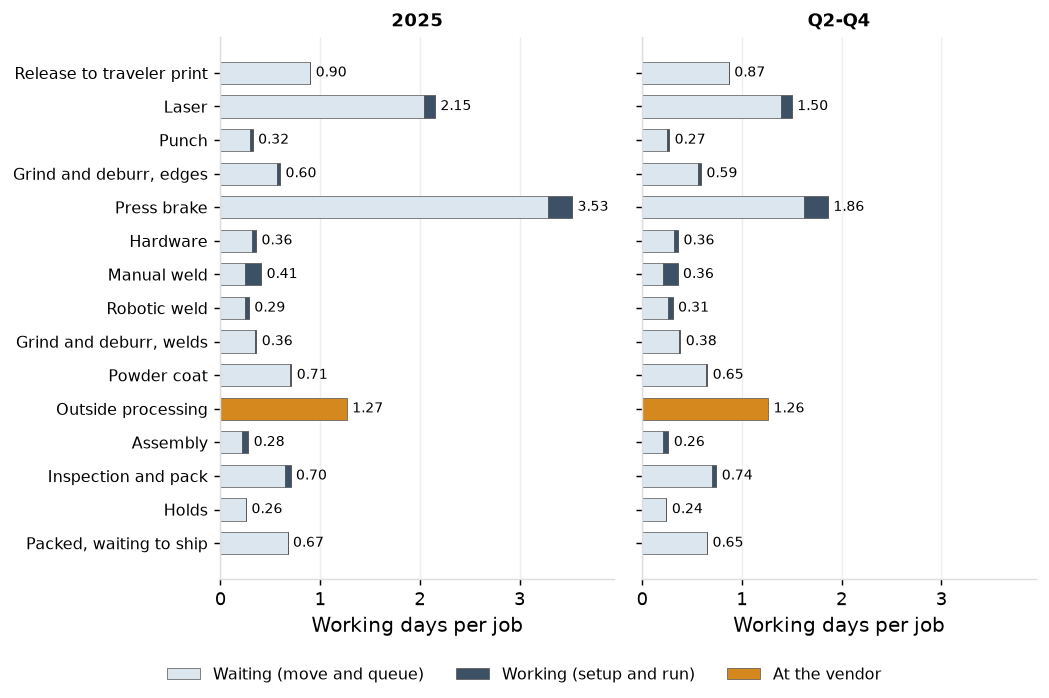
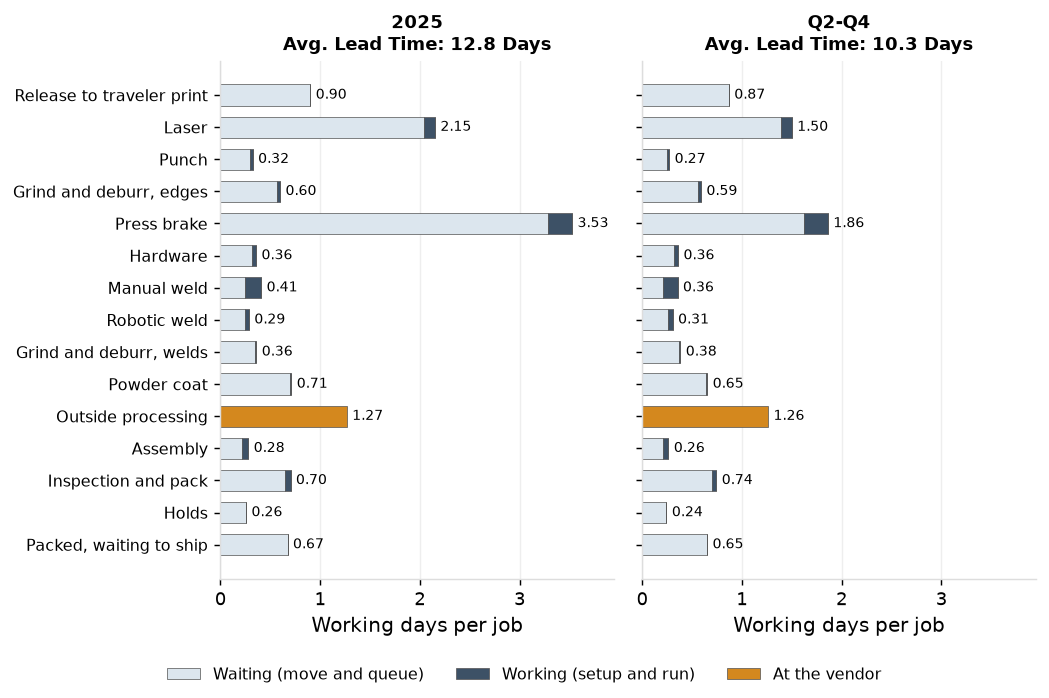
Flow report: headings, chart titles and the due-date histogram's range
The lead time chart carries the average lead time under each panel title, the histogram runs from 10 or more early to 10 or more late, two subsections are renamed, and the paragraph on lost days with no attribution follows the work-center chart.

Changed region(s): [[0.0, 0.0, 0.5796, 0.8123], [0.6101, 0.0, 0.9152, 0.7822]]

diff --git a/docs/reports/lead_time_and_late_jobs.html b/docs/reports/lead_time_and_late_jobs.html
@@ -66,14 +66,14 @@ nav.toc a.sub { font-size: 12px; padding-left: 22px; }
 <div class='chart-title'>Average WIP and Working Days on the Floor, 2023 to 2025</div><img alt="Average WIP and Working Days on the Floor, 2023 to 2025" src="../figures/lead_time_wip_by_quarter.png?v=0f7d6a92">
 <p>WIP peaked at 466 jobs at the end of 2024 against a Q3 2024 average of 150. In Q4 2024, the shop released 26% more brake standard hours than in Q3. This surge pushed the lasers to 92% of scheduled hours on average over the six weeks from November 18, vs. 69% in Q3. Over those weeks, 96 to 223 jobs were waiting to be cut, vs. an average of 35 jobs in Q3. The work then queued at the brakes, which already run at 90% in a normal quarter, and it took through Q1 and into Q2 2025 to clear this backlog. See Appendix Table <a href='#t1'>1</a> for additional detail.</p>
 <div class='chart-title'>Weekly WIP and Net Inflow, Q3 2024 to Q2 2025</div><img alt="Weekly WIP and net inflow, July 2024 to June 2025" src="../figures/lead_time_year_end_build.png?v=11291d26">
-<p>By location, the brakes (queue and run together) hold 28% of WIP in 2025, while the laser cutting stations hold 22% and outside processing 10%. The other eight work centers and jobs complete but not yet shipped hold the remaining 40% between them, none above 9%. In Q2-Q4 the brakes' share falls to 17% and the lasers' rises to 24%, as a result of the Q1 backlog having been worked through.</p>
+<p>By location, the brakes (queue, setup and run together) hold 28% of WIP in 2025, while the laser cutting stations hold 22% and outside processing 10%. The other eight work centers and jobs complete but not yet shipped hold the remaining 40% between them, none above 9%. In Q2-Q4 the brakes' share falls to 17% and the lasers' rises to 24%, as a result of the Q1 backlog having been worked through.</p>
 <div class='chart-title'>Average Share of Jobs in WIP by Location</div><img alt="WIP by location" src="../figures/lead_time_wip_by_location.png?v=59e74d5f">
 <p>The 2025 average floor WIP of 238 jobs was 0.96x the WIP the quoted lead times imply at measured throughput; in Q2-Q4 it was 202 WIP jobs against 240 implied (0.84x). The excess for the year is a result of the first-quarter backlog. In Q2-Q4 the floor carried 38 fewer jobs than its quoted lead times allow at the throughput it achieved, so it could have taken on about 19% more work, or quoted shorter lead times, and still shipped the average job inside its quote. See Appendix Table <a href='#t2'>2</a> for additional detail.</p>
 
 <h2 id='f2'>2. Lead Time</h2>
 <h3 id='f2_1'>Lead time decomposition</h3>
 <p>In 2025, the average lead time of all jobs was 12.8 days, and in Q2-Q4 it was 10.3 days. 84% of lead time in 2025 was spent waiting (movement between and queueing at work centers), against 6% spent working at machines (both setup and run), and 10% with outside vendors. The time spent waiting was concentrated: in 2025, the brake queue alone was 3.1 days of the average job's lead time (24% of total), and the brakes held 53% of all queue time. The brake queue time in 2025 was highly skewed: the median queue time was 1.0 day, with a 90th percentile of 9.5 days. We've presented Q2-Q4 data alongside 2025, as this largely removes the impact of the Q4 build and presents a more normalized view. See Appendix Table <a href='#t3'>3</a> for additional detail.</p>
-<div class='chart-title'>Lead Time Decomposition by Stage, 2025 and Q2-Q4</div><img alt="Lead Time Decomposition by Stage, 2025 and Q2-Q4" src="../figures/lead_time_by_flow_step.png?v=869f2910">
+<div class='chart-title'>Lead Time Decomposition by Stage, 2025 and Q2-Q4</div><img alt="Lead Time Decomposition by Stage, 2025 and Q2-Q4" src="../figures/lead_time_by_flow_step.png?v=f7a945d5">
 
 <h3 id='f2_2'>Actual vs. quoted lead times</h3>
 <p>In 2025, the median job shipped in 11.2 working days vs. an average quoted lead time of 12.9; in Q2-Q4, it was 9.2 vs. 12.5. The quoted lead time was met on 63% of jobs in 2025 and 77% in Q2-Q4. The quote was met on 59% of repeat-part jobs in 2025 (72% in Q2-Q4), 73% of new-part jobs (88%) and 72% of outside-processing jobs (90%). See Appendix Table <a href='#t4'>4</a> for additional detail.</p>
@@ -84,9 +84,9 @@ nav.toc a.sub { font-size: 12px; padding-left: 22px; }
 
 <p>A job's due date is set as the later of the quote and the customer's requested date. Requested dates were 74% of job due dates in 2025, with a median of 15 working days. On-time delivery was 81% in 2025, and in Q2-Q4 once the backlog was worked through, on-time delivery was 91%.</p>
 <p>There were 987 late jobs in 2025, with a median days late of 3 and a 90th percentile of 7. That dropped to 323 late jobs in Q2-Q4, with a median days late of 2 and a 90th percentile of 7. In 2025, 40% of jobs shipped 6 days or more before the due date. See Appendix Tables <a href='#t5'>5</a> and <a href='#t6'>6</a> for additional detail.</p>
-<div class='chart-title'>Working Days Shipped After the Due Date, 2025 and Q2-Q4</div><img alt="Working Days Shipped After the Due Date, 2025 and Q2-Q4" src="../figures/days_after_due_date.png?v=85daed97">
+<div class='chart-title'>Working Days Shipped After the Due Date, 2025 and Q2-Q4</div><img alt="Working Days Shipped After the Due Date, 2025 and Q2-Q4" src="../figures/days_after_due_date.png?v=14f59310">
 
-<h3 id='f3_2'>Where late jobs spend their time</h3>
+<h3 id='f3_2'>Late job lead time decomposition</h3>
 <p>In 2025, the brake queue was 24% of all jobs' lead time and accounted for the largest share of the extra days on late jobs: 5.76 days against 2.50 for on-time jobs. This was due to the first quarter's backlog: the 2024 year-end build released more work than the brakes could absorb and put 664 of the year's 987 late jobs into Q1. In Q2-Q4, with the backlog cleared, late jobs waited less at the brakes than on-time jobs (0.73 days against 1.54).</p>
 <p>In Q2-Q4, the extra days on late jobs were due to material wait at the first operation (2.35 days for late jobs vs. 0.65 for on-time jobs), outside processing (2.24 vs. 1.17), the robotic weld queue (1.14 vs. 0.17) and setup and run (1.81 vs. 0.66; the average lot size for late jobs was 72 pieces vs. 47 for on-time jobs). See Appendix Tables <a href='#t7a'>7a</a> and <a href='#t7b'>7b</a> for additional detail.</p>
 <div class='chart-title'>Lead time by stage, on-time vs. late jobs</div><img alt="Lead time by stage, on-time and late jobs" src="../figures/lead_time_stage_decomposition.png?v=413eff82">
@@ -95,10 +95,10 @@ nav.toc a.sub { font-size: 12px; padding-left: 22px; }
 <h3 id='f3_3'>Drivers behind late jobs</h3>
 <p>We analyzed the ERP and shop-floor records to arrive at an attribution of lost days (i.e., how many days late the jobs shipped) by driver. For each late job, we considered how many days it ran longer than an on-time job of the same routing class at each stage, as well as material holds and late purchase order receipts. We then assigned each job to a driver.</p>
 <p>In 2025, jobs waiting at work centers (i.e., queue constraints) accounted for 42% of the 3,473 lost days, while jobs that were released late accounted for 21%, and jobs that waited on material and outside processing accounted for 7% and 3%, respectively. In Q2-Q4, jobs that were released late accounted for 48% of the 1,035 lost days, with queue constraint (16%), material (12%) and outside processing (3%) the other main drivers. Jobs were released late when they went to the floor with fewer working days to the due date than the job's quoted lead time; this was the largest driver on 162 of the 323 (50%) late jobs in Q2-Q4. See Appendix Tables <a href='#t8'>8</a>, <a href='#t9a'>9a</a> and <a href='#t9b'>9b</a> for additional detail.</p>
-<p>24% of lost days in 2025 and 18% in Q2-Q4 have no attribution. Of the 823 non-attributed lost days in 2025, 27% was from work center queue time above on-time median but below the attribution threshold, 30% from setup and run time above normal with no overrun or rework recorded, and 16% from movement between stages. The remainder have no single discernible driver. See Appendix Tables <a href='#t10'>10</a> and <a href='#t11'>11</a> for additional detail.</p>
 <div class='chart-title'>Lost days by attributed driver</div><img alt="Lost days by attributed driver" src="../figures/late_jobs_lost_days_by_cause.png?v=9910e56e">
 <p>The chart below shows where on the floor the lost days were incurred: each work center's lost days in 2025 and in Q2-Q4, split by attributed driver. It excludes the days attributed to jobs released late (732 of the 3,473 lost days in 2025 and 501 of the 1,035 in Q2-Q4), since those days are lost at order entry, before the job reaches a work center.</p>
 <div class='chart-title'>Lost days by work center and attributed driver</div><img alt="Lost days by work center and attributed driver" src="../figures/late_jobs_lost_days_by_work_center.png?v=b0caab20">
+<p>24% of lost days in 2025 and 18% in Q2-Q4 have no attribution. Of the 823 non-attributed lost days in 2025, 27% was from work center queue time above on-time median but below the attribution threshold, 30% from setup and run time above normal with no overrun or rework recorded, and 16% from movement between stages. The remainder have no single discernible driver. See Appendix Tables <a href='#t10'>10</a> and <a href='#t11'>11</a> for additional detail.</p>
 
 <h3 id='f3_4'>The shop's own records</h3>
 <p>Late-reason codes are inputted retroactively on late jobs by the customer service team during the weekly delivery review. These codes are pulled from a dropdown list with six choices: capacity, material, outside processing, customer change, quality and other. As seen below, a significant portion of late jobs had no late-reason code entered (36% in 2025 and 37% in Q2-Q4). See Appendix Table <a href='#t12'>12</a> for additional detail.</p>
@@ -113,7 +113,7 @@ nav.toc a.sub { font-size: 12px; padding-left: 22px; }
 <p>First, the fixed standards were consistently too high: in months of normal capacity, the shop over-estimated lead times by an average of 2.5 days. Second, during the period in Q4 2024 to Q1 2025 when the shop's capacity was constrained and lead times increased, the shop's lead time adjustments arrived too late and were too low in quantity, and so under-estimated lead times by 5.8 days in the four months from December 2024 to March 2025. See Appendix Table <a href='#t15'>15</a> for additional detail.</p>
 <div class='chart-title'>Quoted and Actual Lead Time by Release Month, Non-rush Jobs, 2023 to 2025</div><img alt="Quoted and Actual Lead Time by Release Month, Non-rush Jobs, 2023 to 2025" src="../figures/quote_and_actual_by_release_month.png?v=fc1ef2cb">
 <p>Brake backlog at release explains 23% of the lead time quoting error. The quote runs 3.1 days long below 1 day of backlog and 5.6 to 6.2 days short above 3. Outside processing quotes run 4.2 days long: the median job takes 14 days against the 20-day standard. Job size and lot size explain under 1%. The backlog at release sees a build late: jobs released in November 2024 ran 3.5 days over their quotes at 1.4 days of backlog. See Appendix Table <a href='#t16'>16</a> for additional detail.</p>
-<h3 id='f4_1'>A more accurate quote</h3>
+<h3 id='f4_1'>Recommendation</h3>
 <p>The recommended quote is the median lead time of jobs of the same routing class at the same brake backlog at release, refitted monthly from the jobs shipped; the table below gives it as fitted on 2023 to 2025. Fitted that way, it misses by 3.2 days in ordinary months and 5.6 in the build, against 4.4 and 7.3 for today's quote, and quotes shorter than today on 84% of jobs, by 3.9 days on average, and longer on 14%, by 3.6. Applied month by month as the shop would have had it at the time, it does as well in ordinary months (3.4 days) but not in the 2024 build (8.9), because no earlier job had shipped from a backlog above 3 days. A median quote is met by about half of jobs; at the 80th percentile of the same cell the commitment is met on 82% of jobs, against 72% for today's quote. See Appendix Tables <a href='#t17'>17</a>, <a href='#t18'>18</a> and <a href='#t19'>19</a> for additional detail.</p>
 <div class='chart-title'>Quoted Lead Time by Routing Class and Brake Backlog at Release, Working Days, Fitted on 2023 to 2025</div><table class="data"><thead><tr><th>Routing class</th><th>Class standard</th><th>Class median</th><th>Under 1 day</th><th>1 to 2 days</th><th>2 to 3 days</th><th>3 to 5 days</th><th>Over 5 days</th></tr></thead><tbody><tr><td class="">Repeat part</td><td class="">10</td><td class="">8</td><td class="">7</td><td class="">8</td><td class="">11</td><td class="">16</td><td class="">18</td></tr><tr><td class="">New part</td><td class="">15</td><td class="">9</td><td class="">8</td><td class="">10</td><td class="">15</td><td class="">21</td><td class="">22</td></tr><tr><td class="">Outside processing</td><td class="">20</td><td class="">14</td><td class="">13</td><td class="">14</td><td class="">20</td><td class="">29</td><td class="">26</td></tr></tbody></table>
 <div class='chart-title'>Mean Absolute Error of the Quote by Release Month, Current Quote Against the Recommended Quote, 2023 to 2025</div><img alt="Mean Absolute Error of the Quote by Release Month, Current Quote Against the Recommended Quote, 2023 to 2025" src="../figures/quote_error_by_release_month.png?v=c066de11">
@@ -124,7 +124,7 @@ nav.toc a.sub { font-size: 12px; padding-left: 22px; }
 <h3 id='t3'>Table 3. Queue time by work center</h3><table class="data"><thead><tr><th>Work center</th><th>Operations</th><th>Queue days</th><th>Share</th><th>Mean</th><th>Median</th><th>90th percentile</th><th>Share, Q2-Q4</th><th>Mean, Q2-Q4</th><th>Median, Q2-Q4</th><th>90th percentile, Q2-Q4</th></tr></thead><tbody><tr><td class="">Press brake</td><td class="">5,566</td><td class="">17,013</td><td class="">53.2%</td><td class="">3.06</td><td class="">1.02</td><td class="">9.51</td><td class="">35.3%</td><td class="">1.48</td><td class="">0.55</td><td class="">4.13</td></tr><tr><td class="">Grind and deburr</td><td class="">5,572</td><td class="">4,902</td><td class="">15.3%</td><td class="">0.88</td><td class="">0.80</td><td class="">1.87</td><td class="">21.4%</td><td class="">0.89</td><td class="">0.81</td><td class="">1.88</td></tr><tr><td class="">Inspection and pack</td><td class="">5,129</td><td class="">3,526</td><td class="">11.0%</td><td class="">0.69</td><td class="">0.79</td><td class="">1.07</td><td class="">16.1%</td><td class="">0.74</td><td class="">0.82</td><td class="">1.06</td></tr><tr><td class="">Hardware</td><td class="">2,118</td><td class="">1,748</td><td class="">5.5%</td><td class="">0.83</td><td class="">0.71</td><td class="">1.70</td><td class="">7.6%</td><td class="">0.84</td><td class="">0.72</td><td class="">1.63</td></tr><tr><td class="">Manual weld</td><td class="">1,533</td><td class="">1,328</td><td class="">4.1%</td><td class="">0.87</td><td class="">0.72</td><td class="">1.81</td><td class="">5.0%</td><td class="">0.76</td><td class="">0.73</td><td class="">1.44</td></tr><tr><td class="">Robotic weld</td><td class="">420</td><td class="">1,207</td><td class="">3.8%</td><td class="">2.87</td><td class="">1.19</td><td class="">7.94</td><td class="">5.7%</td><td class="">3.21</td><td class="">1.27</td><td class="">9.09</td></tr><tr><td class="">Powder coat</td><td class="">2,328</td><td class="">1,163</td><td class="">3.6%</td><td class="">0.50</td><td class="">0.10</td><td class="">1.90</td><td class="">4.3%</td><td class="">0.43</td><td class="">0.09</td><td class="">1.70</td></tr><tr><td class="">Assembly</td><td class="">684</td><td class="">1,115</td><td class="">3.5%</td><td class="">1.63</td><td class="">0.86</td><td class="">4.01</td><td class="">4.6%</td><td class="">1.53</td><td class="">0.85</td><td class="">3.76</td></tr></tbody></table>
 <h3 id='t4'>Table 4. Lead time against the quoted lead time by routing class</h3><table class="data"><thead><tr><th>Period</th><th>Routing class</th><th>Jobs</th><th>Quoted</th><th>Median</th><th>Mean</th><th>90th percentile</th><th>Within quoted</th><th>On time</th><th>Late jobs</th><th>Median, on time</th><th>Median, late</th></tr></thead><tbody><tr><td class="">2025</td><td class="">All</td><td class="">5,129</td><td class="">12.9</td><td class="">11.2</td><td class="">12.8</td><td class="">23.2</td><td class="">63.0%</td><td class="">80.8%</td><td class="">987</td><td class="">9.2</td><td class="">19.2</td></tr><tr><td class="">2025</td><td class="">Repeat part</td><td class="">3,698</td><td class="">10.6</td><td class="">9.2</td><td class="">11.4</td><td class="">21.2</td><td class="">59.2%</td><td class="">82.2%</td><td class="">659</td><td class="">8.2</td><td class="">17.2</td></tr><tr><td class="">2025</td><td class="">New part</td><td class="">462</td><td class="">15.5</td><td class="">11.2</td><td class="">12.8</td><td class="">23.2</td><td class="">73.4%</td><td class="">82.5%</td><td class="">81</td><td class="">10.2</td><td class="">22.2</td></tr><tr><td class="">2025</td><td class="">Outside processing</td><td class="">969</td><td class="">20.5</td><td class="">16.2</td><td class="">18.2</td><td class="">30.2</td><td class="">72.4%</td><td class="">74.5%</td><td class="">247</td><td class="">14.2</td><td class="">27.2</td></tr><tr><td class="">2025 Q2-Q4</td><td class="">All</td><td class="">3,734</td><td class="">12.5</td><td class="">9.2</td><td class="">10.3</td><td class="">17.2</td><td class="">76.8%</td><td class="">91.3%</td><td class="">323</td><td class="">9.2</td><td class="">13.2</td></tr><tr><td class="">2025 Q2-Q4</td><td class="">Repeat part</td><td class="">2,678</td><td class="">10.1</td><td class="">8.2</td><td class="">9.0</td><td class="">15.2</td><td class="">71.8%</td><td class="">91.9%</td><td class="">218</td><td class="">7.2</td><td class="">12.2</td></tr><tr><td class="">2025 Q2-Q4</td><td class="">New part</td><td class="">346</td><td class="">15.1</td><td class="">10.2</td><td class="">10.5</td><td class="">16.7</td><td class="">88.4%</td><td class="">93.1%</td><td class="">24</td><td class="">10.2</td><td class="">16.7</td></tr><tr><td class="">2025 Q2-Q4</td><td class="">Outside processing</td><td class="">710</td><td class="">20.1</td><td class="">14.2</td><td class="">15.2</td><td class="">21.2</td><td class="">89.7%</td><td class="">88.6%</td><td class="">81</td><td class="">14.2</td><td class="">22.2</td></tr></tbody></table>
 <h3 id='t5'>Table 5. On-time delivery and lead time by quarter shipped</h3><table class="data"><thead><tr><th>Quarter shipped</th><th>Jobs shipped</th><th>Late jobs</th><th>On time</th><th>Median lead time</th><th>90th percentile</th></tr></thead><tbody><tr><td class="">2023 Q1</td><td class="">1,188</td><td class="">87</td><td class="">92.7%</td><td class="">9.2</td><td class="">22.2</td></tr><tr><td class="">2023 Q2</td><td class="">1,042</td><td class="">54</td><td class="">94.8%</td><td class="">7.2</td><td class="">13.2</td></tr><tr><td class="">2023 Q3</td><td class="">981</td><td class="">69</td><td class="">93.0%</td><td class="">7.2</td><td class="">14.2</td></tr><tr><td class="">2023 Q4</td><td class="">1,131</td><td class="">90</td><td class="">92.0%</td><td class="">8.2</td><td class="">16.2</td></tr><tr><td class="">2024 Q1</td><td class="">1,216</td><td class="">83</td><td class="">93.2%</td><td class="">8.2</td><td class="">16.2</td></tr><tr><td class="">2024 Q2</td><td class="">1,106</td><td class="">65</td><td class="">94.1%</td><td class="">7.2</td><td class="">14.2</td></tr><tr><td class="">2024 Q3</td><td class="">1,060</td><td class="">81</td><td class="">92.4%</td><td class="">8.2</td><td class="">16.2</td></tr><tr><td class="">2024 Q4</td><td class="">1,171</td><td class="">142</td><td class="">87.9%</td><td class="">9.2</td><td class="">18.2</td></tr><tr><td class="">2025 Q1</td><td class="">1,395</td><td class="">664</td><td class="">52.4%</td><td class="">19.2</td><td class="">31.2</td></tr><tr><td class="">2025 Q2</td><td class="">1,315</td><td class="">81</td><td class="">93.8%</td><td class="">9.2</td><td class="">17.2</td></tr><tr><td class="">2025 Q3</td><td class="">1,186</td><td class="">118</td><td class="">90.1%</td><td class="">9.2</td><td class="">17.2</td></tr><tr><td class="">2025 Q4</td><td class="">1,233</td><td class="">124</td><td class="">89.9%</td><td class="">9.2</td><td class="">17.2</td></tr></tbody></table>
-<h3 id='t6'>Table 6. Jobs shipped by working days from the due date to the ship date, 2025 and Q2-Q4</h3><table class="data"><thead><tr><th>Working days from the due date to the ship date</th><th>Jobs shipped, 2025</th><th>Jobs shipped, 2025 Q2-Q4</th></tr></thead><tbody><tr><td class="">8 or more early</td><td class="">1,316</td><td class="">1,254</td></tr><tr><td class="">7 early</td><td class="">350</td><td class="">321</td></tr><tr><td class="">6 early</td><td class="">390</td><td class="">348</td></tr><tr><td class="">5 early</td><td class="">395</td><td class="">351</td></tr><tr><td class="">4 early</td><td class="">367</td><td class="">324</td></tr><tr><td class="">3 early</td><td class="">341</td><td class="">273</td></tr><tr><td class="">2 early</td><td class="">362</td><td class="">249</td></tr><tr><td class="">1 early</td><td class="">322</td><td class="">163</td></tr><tr><td class="">on the due date</td><td class="">299</td><td class="">128</td></tr><tr><td class="">1 late</td><td class="">266</td><td class="">97</td></tr><tr><td class="">2 late</td><td class="">201</td><td class="">72</td></tr><tr><td class="">3 late</td><td class="">135</td><td class="">52</td></tr><tr><td class="">4 late</td><td class="">108</td><td class="">31</td></tr><tr><td class="">5 late</td><td class="">79</td><td class="">22</td></tr><tr><td class="">6 late</td><td class="">63</td><td class="">14</td></tr><tr><td class="">7 late</td><td class="">43</td><td class="">8</td></tr><tr><td class="">8 late</td><td class="">31</td><td class="">10</td></tr><tr><td class="">9 late</td><td class="">24</td><td class="">5</td></tr><tr><td class="">10 late</td><td class="">15</td><td class="">6</td></tr><tr><td class="">11 late</td><td class="">6</td><td class="">2</td></tr><tr><td class="">12 late</td><td class="">9</td><td class="">2</td></tr><tr><td class="">13 late</td><td class="">1</td><td class="">0</td></tr><tr><td class="">14 late</td><td class="">3</td><td class="">1</td></tr><tr><td class="">15 or more late</td><td class="">3</td><td class="">1</td></tr><tr><td class="">All jobs</td><td class="">5,129</td><td class="">3,734</td></tr></tbody></table>
+<h3 id='t6'>Table 6. Jobs shipped by working days from the due date to the ship date, 2025 and Q2-Q4</h3><table class="data"><thead><tr><th>Working days from the due date to the ship date</th><th>Jobs shipped, 2025</th><th>Jobs shipped, 2025 Q2-Q4</th></tr></thead><tbody><tr><td class="">10 or more early</td><td class="">802</td><td class="">763</td></tr><tr><td class="">9 early</td><td class="">227</td><td class="">222</td></tr><tr><td class="">8 early</td><td class="">287</td><td class="">269</td></tr><tr><td class="">7 early</td><td class="">350</td><td class="">321</td></tr><tr><td class="">6 early</td><td class="">390</td><td class="">348</td></tr><tr><td class="">5 early</td><td class="">395</td><td class="">351</td></tr><tr><td class="">4 early</td><td class="">367</td><td class="">324</td></tr><tr><td class="">3 early</td><td class="">341</td><td class="">273</td></tr><tr><td class="">2 early</td><td class="">362</td><td class="">249</td></tr><tr><td class="">1 early</td><td class="">322</td><td class="">163</td></tr><tr><td class="">on the due date</td><td class="">299</td><td class="">128</td></tr><tr><td class="">1 late</td><td class="">266</td><td class="">97</td></tr><tr><td class="">2 late</td><td class="">201</td><td class="">72</td></tr><tr><td class="">3 late</td><td class="">135</td><td class="">52</td></tr><tr><td class="">4 late</td><td class="">108</td><td class="">31</td></tr><tr><td class="">5 late</td><td class="">79</td><td class="">22</td></tr><tr><td class="">6 late</td><td class="">63</td><td class="">14</td></tr><tr><td class="">7 late</td><td class="">43</td><td class="">8</td></tr><tr><td class="">8 late</td><td class="">31</td><td class="">10</td></tr><tr><td class="">9 late</td><td class="">24</td><td class="">5</td></tr><tr><td class="">10 or more late</td><td class="">37</td><td class="">12</td></tr><tr><td class="">All jobs</td><td class="">5,129</td><td class="">3,734</td></tr></tbody></table>
 
 
 <h3 id='t7a'>Table 7a. Lead time by stage, 2025: mean working days per job, stages in routing order</h3><table class="data"><thead><tr><th>Stage</th><th>All jobs</th><th>Share of lead time</th><th>On time</th><th>Late</th></tr></thead><tbody><tr><td class="">Release to traveler print</td><td class="">0.90</td><td class="">7.1%</td><td class="">0.89</td><td class="">0.97</td></tr><tr><td class="">First-operation queue</td><td class="">1.48</td><td class="">11.6%</td><td class="">1.08</td><td class="">3.16</td></tr><tr><td class="">Material wait at first operation</td><td class="">0.85</td><td class="">6.6%</td><td class="">0.68</td><td class="">1.55</td></tr><tr><td class="">Queue: press brake</td><td class="">3.13</td><td class="">24.5%</td><td class="">2.50</td><td class="">5.76</td></tr><tr><td class="">Queue: hardware</td><td class="">0.22</td><td class="">1.7%</td><td class="">0.23</td><td class="">0.18</td></tr><tr><td class="">Queue: manual weld</td><td class="">0.19</td><td class="">1.5%</td><td class="">0.18</td><td class="">0.21</td></tr><tr><td class="">Queue: robotic weld</td><td class="">0.23</td><td class="">1.8%</td><td class="">0.15</td><td class="">0.58</td></tr><tr><td class="">Queue: grind and deburr</td><td class="">0.66</td><td class="">5.2%</td><td class="">0.68</td><td class="">0.58</td></tr><tr><td class="">Powder scheduling wait</td><td class="">0.46</td><td class="">3.6%</td><td class="">0.40</td><td class="">0.73</td></tr><tr><td class="">Queue: powder coat</td><td class="">0.16</td><td class="">1.3%</td><td class="">0.13</td><td class="">0.33</td></tr><tr><td class="">Queue: assembly</td><td class="">0.20</td><td class="">1.6%</td><td class="">0.12</td><td class="">0.54</td></tr><tr><td class="">Queue: inspection and pack</td><td class="">0.51</td><td class="">4.0%</td><td class="">0.59</td><td class="">0.19</td></tr><tr><td class="">Setup and run</td><td class="">0.82</td><td class="">6.4%</td><td class="">0.67</td><td class="">1.47</td></tr><tr><td class="">Move</td><td class="">0.79</td><td class="">6.2%</td><td class="">0.74</td><td class="">1.03</td></tr><tr><td class="">Hold: customer</td><td class="">0.09</td><td class="">0.7%</td><td class="">0.08</td><td class="">0.13</td></tr><tr><td class="">Hold: engineering</td><td class="">0.06</td><td class="">0.5%</td><td class="">0.05</td><td class="">0.09</td></tr><tr><td class="">Hold: material</td><td class="">0.01</td><td class="">0.0%</td><td class="">0.00</td><td class="">0.01</td></tr><tr><td class="">Hold: other</td><td class="">0.03</td><td class="">0.2%</td><td class="">0.03</td><td class="">0.03</td></tr><tr><td class="">Hold: quality</td><td class="">0.04</td><td class="">0.3%</td><td class="">0.03</td><td class="">0.06</td></tr><tr><td class="">Hold: tooling</td><td class="">0.03</td><td class="">0.2%</td><td class="">0.03</td><td class="">0.04</td></tr><tr><td class="">Outside processing</td><td class="">1.27</td><td class="">9.9%</td><td class="">1.10</td><td class="">1.96</td></tr><tr><td class="">Packed, waiting to ship</td><td class="">0.67</td><td class="">5.3%</td><td class="">0.63</td><td class="">0.84</td></tr><tr><td class="">Lead time, mean</td><td class="">12.78</td><td class=""></td><td class="">10.97</td><td class="">20.38</td></tr><tr><td class="">Lead time, median</td><td class="">11.2</td><td class=""></td><td class="">9.2</td><td class="">19.2</td></tr><tr><td class="">Jobs</td><td class="">5,129</td><td class=""></td><td class="">4,142</td><td class="">987</td></tr></tbody></table>

diff --git a/analytics/lead_time/sections.py b/analytics/lead_time/sections.py
@@ -150,9 +150,9 @@ AFTER = q(f"""select cs.wd_index - cd.wd_index as days_after, quarter(j.ship_dat
               left join intermediate.int_working_days cr on cr.calendar_date = ol.requested_date left join intermediate.int_working_days co on co.calendar_date = ol.order_date
               where year(j.ship_date) = {YEAR}""")
 assert len(AFTER) == len(jobs) and int((AFTER["days_after"] > 0).sum()) == int((~jobs["on_time"]).sum())
-EARLY, LATE_CAP = -8, 15
+EARLY, LATE_CAP = -10, 10
 AFTER_BINS = list(range(EARLY, LATE_CAP + 1))
-AFTER_LABEL = {EARLY: "8 or more early", LATE_CAP: "15 or more late"}
+AFTER_LABEL = {EARLY: "10 or more early", LATE_CAP: "10 or more late"}
 
 
 def after_counts(d):
@@ -341,7 +341,7 @@ def fig_flow_days():
             ax.annotate(f"{v:.2f}", (v, yi), textcoords="offset points", xytext=(3, 0), va="center", fontsize=7.8)
         ax.set_yticks(yy)
         ax.set_yticklabels(FLOW_ROWS, fontsize=9)
-        ax.set_title(label, fontsize=10)
+        ax.set_title(label + chr(10) + f"Avg. Lead Time: {s['total']:.1f} Days", fontsize=10)
         ax.set_xlabel("Working days per job")
     axes[0].set_xlim(0, float(FY["total"].max()) * 1.12)
     h, lab = axes[0].get_legend_handles_labels()
@@ -363,7 +363,7 @@ def fig_after_due():
     ax.bar(x, AR.to_numpy(), 0.86, color=BRAND_BLUE, label=RT)
     ax.axvline(0, color=RED, linewidth=1.6, linestyle="--", label="Due date")
     ax.set_xticks(AFTER_BINS)
-    ax.set_xticklabels(["8 or" + chr(10) + "more" + chr(10) + "early" if t == EARLY else "15 or" + chr(10) + "more" + chr(10) + "late" if t == LATE_CAP else str(t) for t in AFTER_BINS],
+    ax.set_xticklabels(["10 or" + chr(10) + "more" + chr(10) + "early" if t == EARLY else "10 or" + chr(10) + "more" + chr(10) + "late" if t == LATE_CAP else str(t) for t in AFTER_BINS],
                        fontsize=8)
     ax.set_xlim(EARLY - 0.8, LATE_CAP + 0.8)
     ax.set_xlabel("Working days shipped after the due date")
@@ -632,7 +632,7 @@ def report():
              f"normal quarter, and it took through Q1 and into Q2 {YEAR} to clear this backlog. {see('7')}</p>")
     b.append(chart("Weekly WIP and Net Inflow, Q3 2024 to Q2 2025", fig_weekly_year()))
     turn = lambda a, c: "falls" if c < a else "rises"
-    b.append(f"<p>By location, the brakes (queue and run together) hold {pct(ws_year['press_brake'], 0)} of WIP in {YEAR}, while the laser cutting stations hold "
+    b.append(f"<p>By location, the brakes (queue, setup and run together) hold {pct(ws_year['press_brake'], 0)} of WIP in {YEAR}, while the laser cutting stations hold "
              f"{pct(ws_year['laser'], 0)} and outside processing {pct(ws_year['outside_processing'], 0)}. The other {NUMBER[len(other_centers)]} work centers and jobs "
              f"complete but not yet shipped hold the remaining {pct(ws_other.sum(), 0)} between them, none above {pct(ws_other.max(), 0)}. In {RT} the brakes' share "
              f"{turn(ws_year['press_brake'], ws_rest['press_brake'])} to {pct(ws_rest['press_brake'], 0)} and the lasers' "
@@ -655,7 +655,7 @@ def report():
              f"shipped 6 days or more before the due date. {see('5a', '8')}</p>")
     b.append(chart(f"Working Days Shipped After the Due Date, {YEAR} and {RT}", fig_after_due()))
 
-    b.append("<h2 id='f6'>6. Where late jobs spend their time</h2>")
+    b.append("<h2 id='f6'>6. Late job lead time decomposition</h2>")
     b.append(f"<p>In {YEAR}, the brake queue was {pct(st(SY, bq, 'share'), 0)} of all jobs' lead time and accounted for the largest share of the extra days on "
              f"late jobs: {d2(st(SY, bq, 'late'))} days against {d2(st(SY, bq, 'on time'))} for on-time jobs. This was due to the first quarter's backlog: the "
              f"2024 year-end build released more work than the brakes could absorb and put {n0(q1['late_jobs'])} of the year's {n0(ya['late_jobs'])} late jobs "
@@ -702,7 +702,7 @@ def report():
     b.append("<div class='glossary'>WIP: jobs released and not shipped. Quoted lead time: 10 working days for repeat parts, 15 for new parts, "
              "20 with outside processing. On time: shipped on or before the promised date as last revised.</div>")
     toc = [("f1", ""), ("f2", "Actual vs. quoted lead times"), ("f3", "Lead time decomposition"), ("f4", ""), ("f5", ""),
-           ("f6", "Where late jobs spend their time"),
+           ("f6", "Late job lead time decomposition"),
            ("rec", "Recommendation"), ("method", "Method and data"), ("appendix", "Appendix")]
     scope = (f"Jobs shipped in {YEAR}, whole year and {REST}; records from January 2023 to December 2025.<br>"
              f"Sources: ERP, shop-floor data collection, quality, maintenance and attendance exports (batch {batch}).")

diff --git a/analytics/late_jobs/sections.py b/analytics/late_jobs/sections.py
@@ -316,16 +316,16 @@ def report():
              f"Jobs were released late when they went to the floor with fewer working days to the due date than the job's quoted lead time; "
              f"this was the largest driver on {n0(r['dominant']['released late'])} of the {n0(len(LR))} ({pct(r['dominant']['released late'] / len(LR), 0)}) late jobs in {REST}. {see(1, 5, 6)}</p>")
     queues = [k for k in NAYs.index if k.startswith("queue:") or k == "first-operation queue"]
-    b.append(f"<p>{pct(ys['not attributable'], 0)} of lost days in {YEAR} and {pct(rs['not attributable'], 0)} in {REST} have no attribution. Of the "
-             f"{n0(NAY.sum())} non-attributed lost days in {YEAR}, {pct(NAYs[queues].sum(), 0)} was from work center queue time above on-time median but below "
-             f"the attribution threshold, {pct(NAYs['setup and run'], 0)} from setup and run time above normal with no overrun or rework recorded, and "
-             f"{pct(NAYs['move'], 0)} from movement between stages. The remainder have no single discernible driver. {see(9, 10)}</p>")
     b.append(chart("Lost days by attributed driver", fig_causes()))
     b.append(f"<p>The chart below shows where on the floor the lost days were incurred: each work center's lost days in {YEAR} and in {REST}, split by attributed "
              f"driver. It excludes the days attributed to jobs released late ({n0(y['days']['released late'])} of the {n0(y['total'])} lost days in {YEAR} and "
              f"{n0(r['days']['released late'])} of the {n0(r['total'])} in {REST}), since those days are lost at order entry, before the job reaches a work "
              f"center.</p>")
     b.append(chart("Lost days by work center and attributed driver", fig_work_center()))
+    b.append(f"<p>{pct(ys['not attributable'], 0)} of lost days in {YEAR} and {pct(rs['not attributable'], 0)} in {REST} have no attribution. Of the "
+             f"{n0(NAY.sum())} non-attributed lost days in {YEAR}, {pct(NAYs[queues].sum(), 0)} was from work center queue time above on-time median but below "
+             f"the attribution threshold, {pct(NAYs['setup and run'], 0)} from setup and run time above normal with no overrun or rework recorded, and "
+             f"{pct(NAYs['move'], 0)} from movement between stages. The remainder have no single discernible driver. {see(9, 10)}</p>")
 
     b.append("<h2 id='f2'>2. The shop's own records</h2>")
     b.append(f"<p>Late-reason codes are inputted retroactively on late jobs by the customer service team during the weekly delivery review. These codes are pulled "

diff --git a/analytics/reports/quoting_section.py b/analytics/reports/quoting_section.py
@@ -191,7 +191,7 @@ def quoting(n, start=100):
              f"explain under 1%. The backlog at release sees a build late: jobs released in {month(nov.name)} ran {d1(nov[f'bias|{A.CURRENT}'])} days over their quotes at "
              f"{d1(nov['backlog'])} days of backlog. {T.see('conditions')}</p>")
 
-    b.append(f"<h3 id='f{n}_1'>A more accurate quote</h3>")
+    b.append(f"<h3 id='f{n}_1'>Recommendation</h3>")
     co, cf = A.against_current(A.REC), A.against_current(A.REC_FIT)
     assert int((A.HISTORY[A.HISTORY["ship_date"] < f"{YEAR - 1}-12-01"]["brake_backlog_days"] >= 3).sum()) == 0
     b.append(f"<p>The recommended quote is the median lead time of jobs of the same routing class at the same brake backlog at release, refitted monthly from the jobs shipped; "
